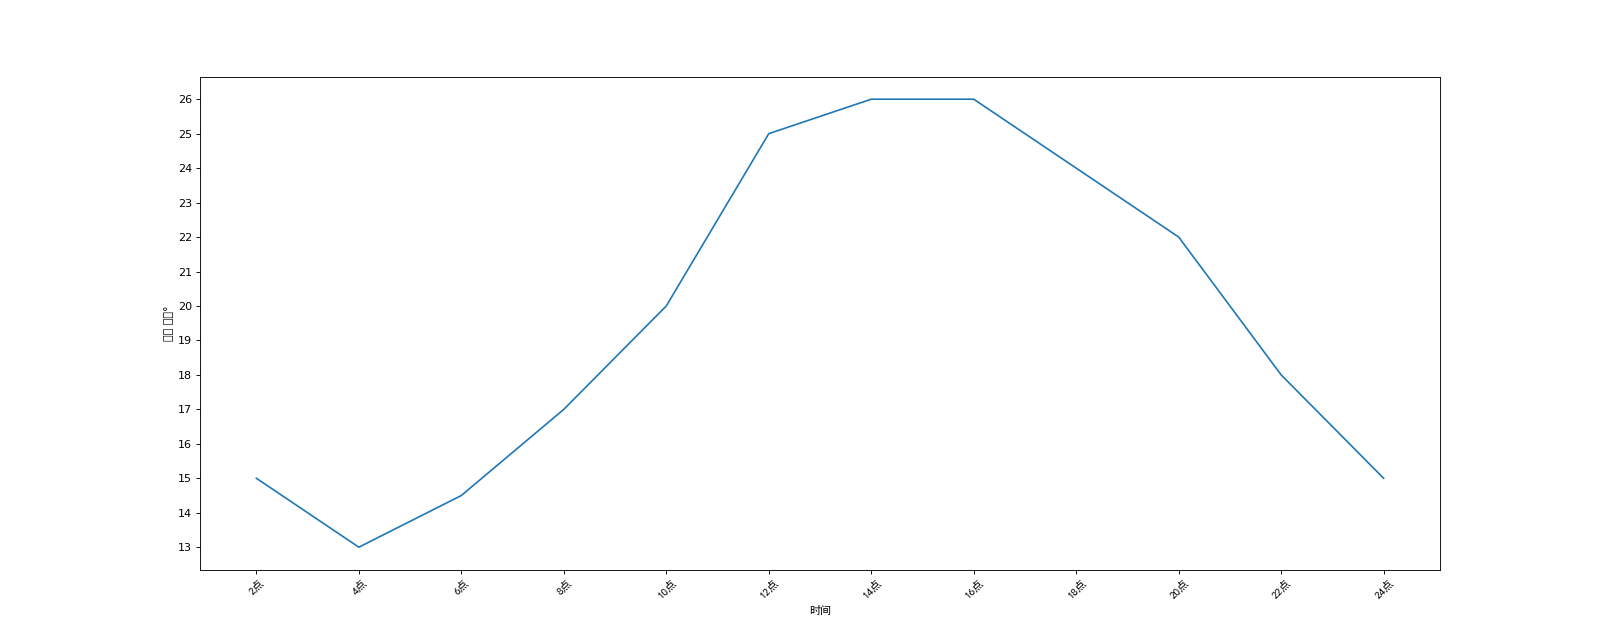
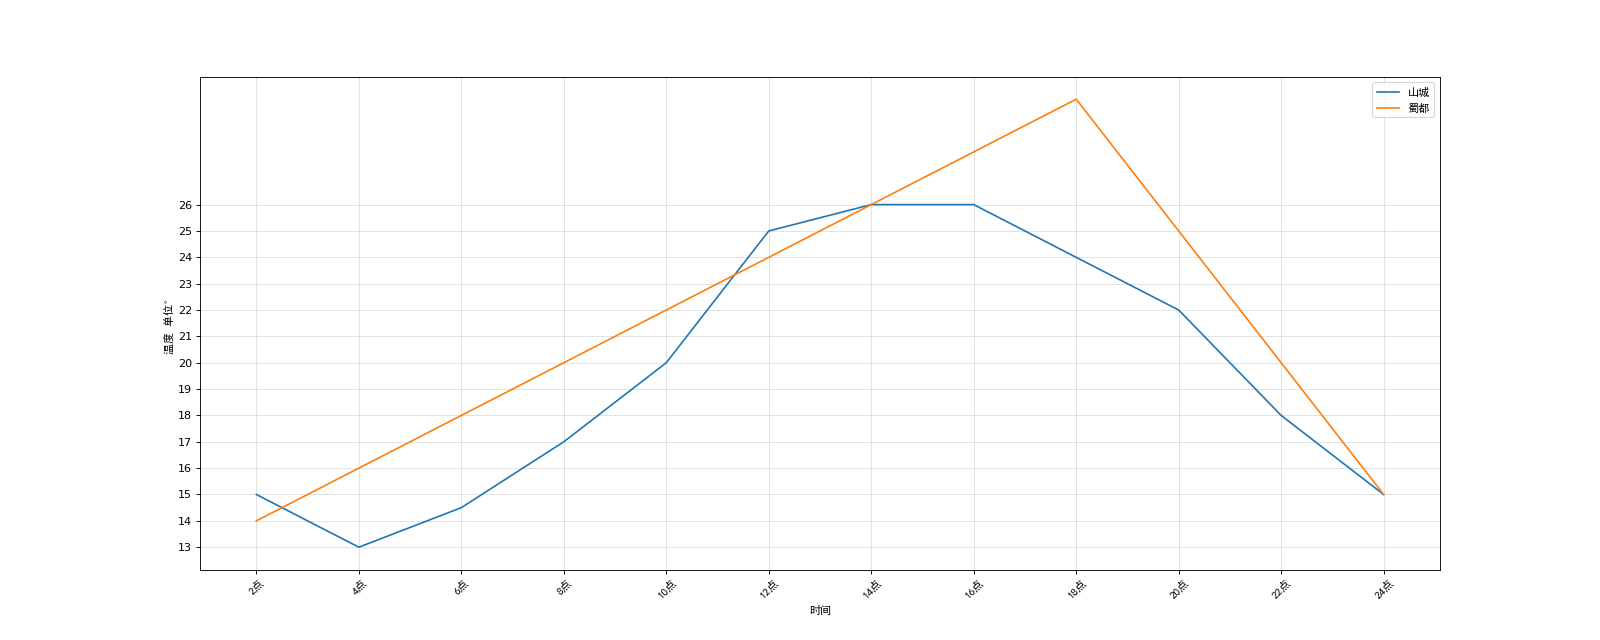
numpy

diff --git a/study/matplotlib/气温散点.py b/study/matplotlib/气温散点.py
@@ -1,0 +1,26 @@
+from matplotlib import  pyplot as plt
+from matplotlib import font_manager
+
+my_font=font_manager.FontProperties(fname="/Windows/Fonts/SIMHEI.TTF")
+
+y_3=[11,17,16,11,12,11,12,6,6,7,8,9,12,15,14,17,18,21,16,17,20,14,15,15,15,19,21,22,22,22,15]
+y_10=[26,26,28,19,21,17,16,19,18,20,20,19,22,23,17,20,21,2,0,22,15,11,15,5,13,17,10,11,18,14,12]
+
+x_3=range(1,32)
+x_10=range(51,82)
+
+plt.figure(figsize=(20,8),dpi=80)
+plt.scatter(x_3,y_3,label="3月份")
+plt.scatter(x_10,y_10,label="10月份")
+
+_x=list(x_3)+list(x_10)
+_xtick_labels=[f"3月{i}日" for i in x_3]
+_xtick_labels+=[f"10月{i-50}日" for i in x_10]
+plt.xticks(_x[::3],_xtick_labels[::3],fontproperties=my_font,rotation=45)
+
+plt.legend(prop=my_font)
+
+plt.xlabel("时间",fontproperties=my_font)
+plt.ylabel("温度",fontproperties=my_font)
+plt.title("标题",fontproperties=my_font)
+plt.show()

diff --git a/study/matplotlib/test01.py b/study/matplotlib/test01.py
@@ -8,15 +8,20 @@ fig=plt.figure(figsize=(20,8),dpi=80)
 
 x=range(2,26,2)
 y=[15,13,14.5,17,20,25,26,26,24,22,18,15]
+y2=[14,16,18,20,22,24,26,28,30,25,20,15]
 
 _xtick_labels=[f"{i}点" for i in range(2,26,2)]
+
 plt.xticks(x,_xtick_labels,rotation=45,fontproperties=my_font)
 plt.yticks(range(min(y),max(y)+1))
 
 plt.xlabel("时间",fontproperties=my_font)
 plt.ylabel("温度 单位°",fontproperties=my_font)
 
-plt.plot(x,y)
+plt.plot(x,y,label="山城")
+plt.plot(x,y2,label="蜀都")
+plt.grid(alpha=0.4)
+plt.legend(prop=my_font)
 plt.savefig("./sig_size.png")
 
 plt.show()

diff --git a/study/numpy/test02.py b/study/numpy/test02.py
@@ -1,0 +1,16 @@
+import numpy as np
+
+test01="./testdata/test1.csv"
+
+t1=np.loadtxt(test01,delimiter=",",dtype=float)
+t2=np.loadtxt(test01,delimiter=",",dtype=float,unpack=True)
+
+print(t1)
+print(t2)
+sp=np.array([0,3])
+print(t1[sp])
+
+arr=np.arange(25).reshape((5,5))
+print(arr)
+arr=np.where(arr<10,0,10)
+print(arr)

diff --git a/study/numpy/test01.py b/study/numpy/test01.py
@@ -1,0 +1,17 @@
+import numpy
+import numpy as np
+
+t1=np.array([1,2,3])
+print(t1)
+print(type(t1))
+
+t2=numpy.arange(10)
+print(t2)
+print(t2.dtype)
+
+t3=np.array(range(1,5),dtype="i1")
+print(t3.dtype)
+
+t4=np.arange(24).reshape((2,3,4))
+print(t4)
+print(t4.reshape(4,6))
